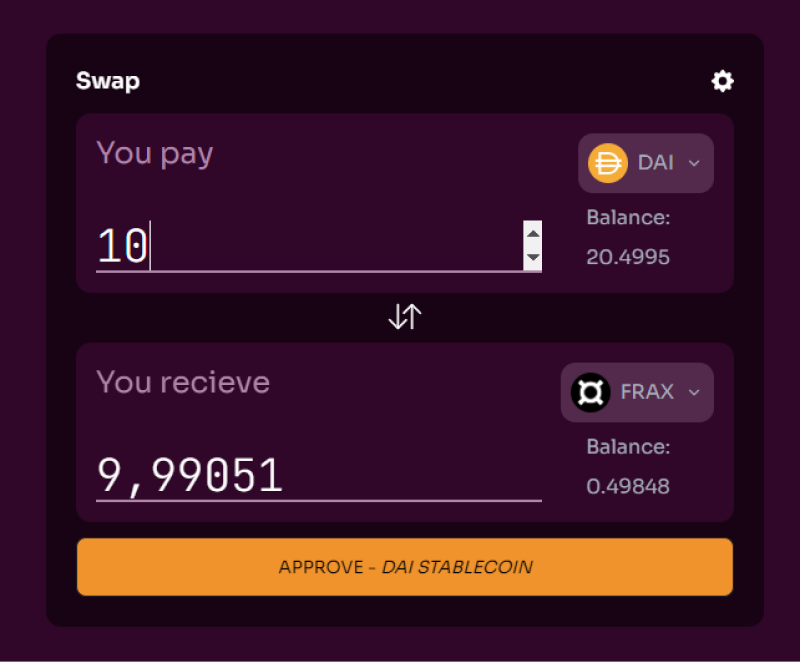
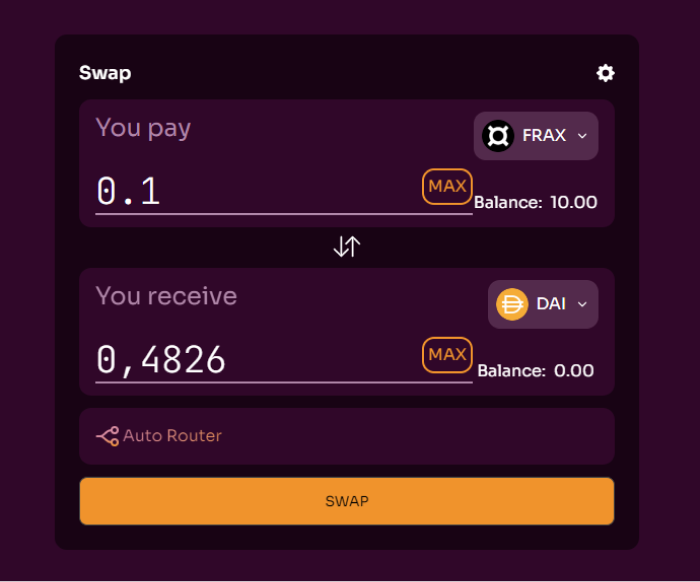
Updated swap for auto router

diff --git a/docs/guide/exchange/swap.md b/docs/guide/exchange/swap.md
@@ -56,6 +56,12 @@ There is also an option to input the desired **amount** of the **token you get**
 
 <img src="/img/guide/swap/token1-amount.png" alt="Token one amount" width="490"/> <img src="/img/guide/swap/token2-amount.png" alt="Token two amount" width="500"/>
 
+## Auto router
+
+When you set the amount, you should see an auto router text appear above the swap button. If you click on the auto router text, an image will appear. Image represents the path that token must take, for you to recieve the calculated amount of the token you are swapping to.
+
+<img src="/img/guide/swap/token1-amount-auto-router.png" alt="Token one amount" width="550"/> <img src="/img/guide/swap/auto-router.png" alt="Token two amount" width="450"/>
+
 ## Connect your wallet
 
 If your wallet is already connected, the "SWAP" or "APPROVE - _[token name]_" button will be shown, so you can skip this and proceed to [Swap](#swap). Otherwise you will be presented with "Connect Wallet" button, which will allow you to connect your desired wallet to Kōyō Finance.
